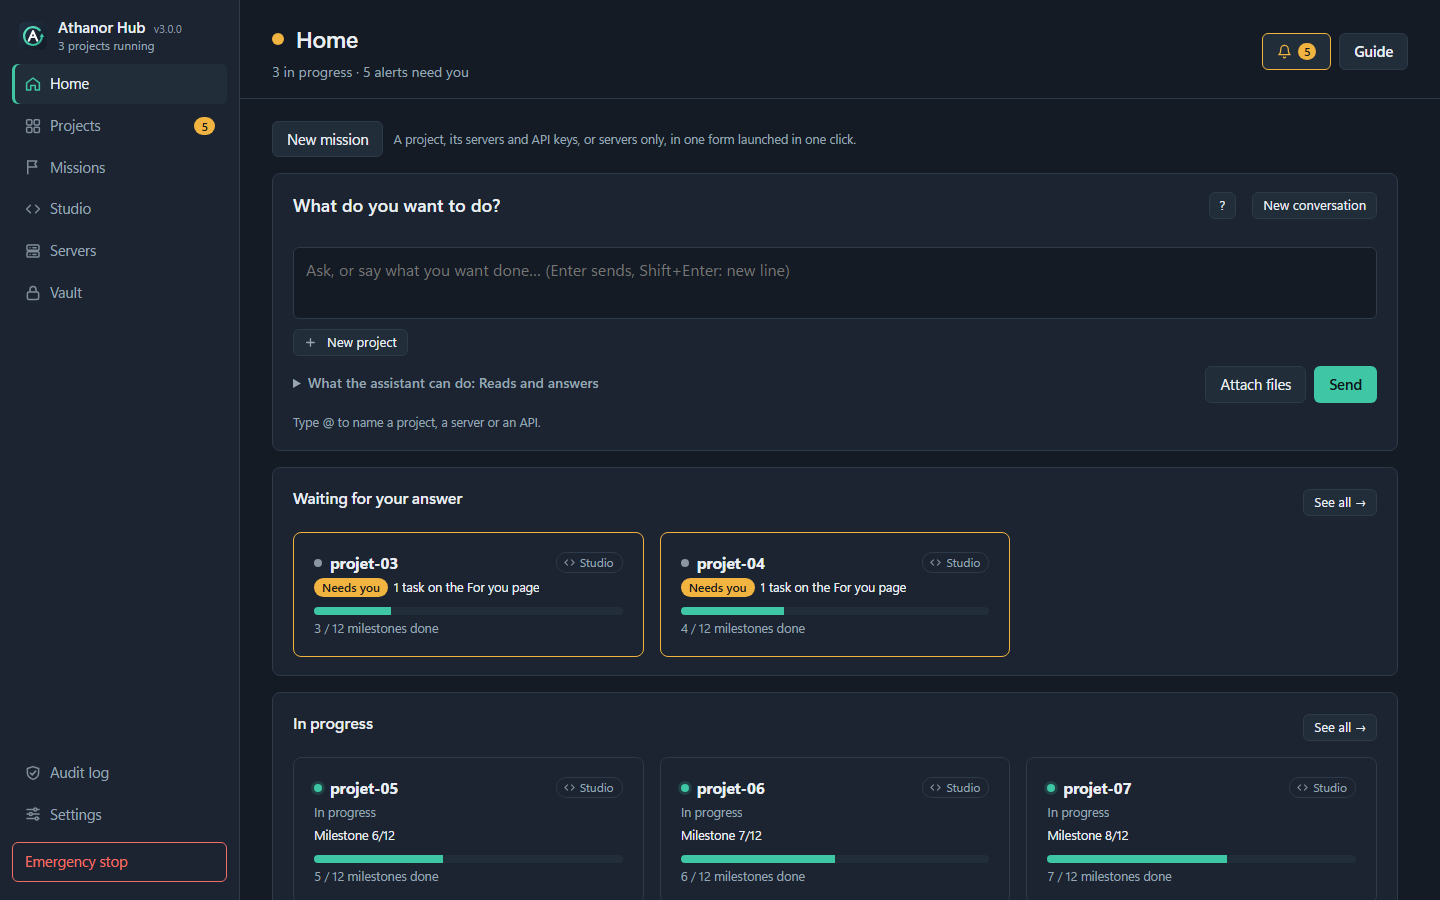
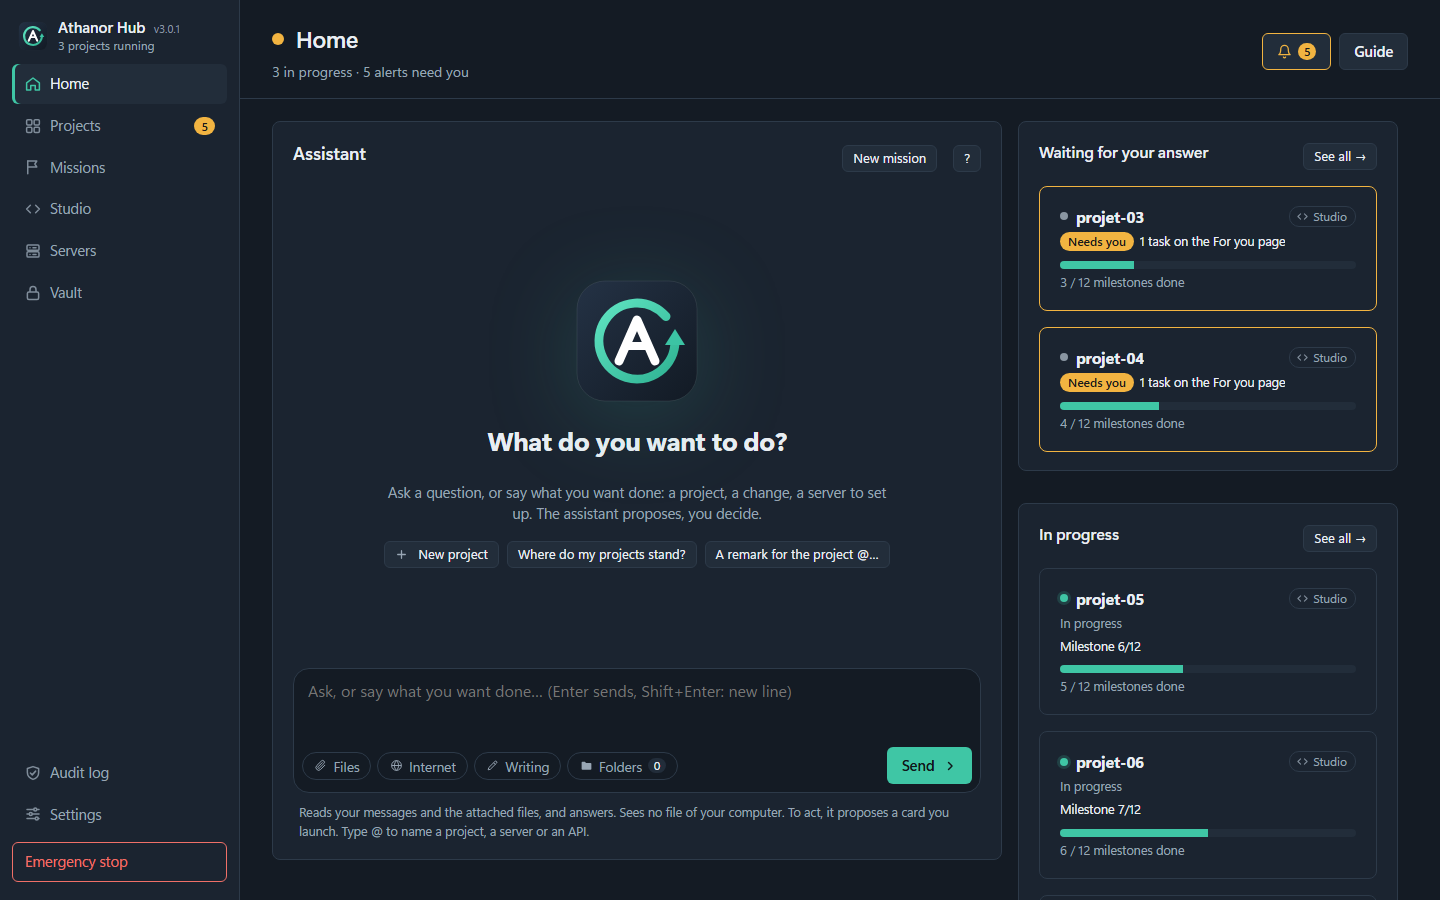
Show the new Home in the README

diff --git a/README.fr.md b/README.fr.md
@@ -33,7 +33,7 @@
 </p>
 
 <p align="center">
-  <img src="docs/images/hub.png" alt="La page d'accueil d'Athanor Hub : la conversation avec l'assistant, avec sa puce Nouveau projet et ses mentions @, puis les projets qui attendent votre réponse et ceux qui sont en cours, chacun avec ses jalons" width="100%">
+  <img src="docs/images/hub.png" alt="La page d'accueil d'Athanor Hub : une grande conversation avec l'assistant à gauche, la marque d'Athanor et des façons de commencer tant qu'elle est vide, ses options toujours visibles sous le champ ; à droite, les projets qui attendent votre réponse et ceux qui sont en cours, chacun avec ses jalons" width="100%">
 </p>
 
 Athanor Hub est un **hub** : un seul programme, une seule fenêtre, d'où vous pilotez des **modules** qui travaillent ensemble, sans jamais accéder aux données ni aux secrets les uns des autres. **Studio** lance [Claude Code](https://claude.com/claude-code) cycle après cycle sur votre propre PC, avec votre propre abonnement Claude, jusqu'à la livraison d'un jeu, d'un site, d'une application ou d'un outil. **Serveurs** prépare votre VPS, son DNS et ses certificats, et met en ligne ce que Studio construit. Le **coffre** garde chaque clé chiffrée et ne donne à chaque projet que ce que vous lui accordez. Une seule phrase sur la page d'accueil peut tous les mettre au travail :

diff --git a/README.md b/README.md
@@ -33,7 +33,7 @@
 </p>
 
 <p align="center">
-  <img src="docs/images/hub.png" alt="Athanor Hub's home page: the assistant's conversation box with its New project chip and its @ mentions, then the projects waiting for your answer and those in progress, each with its milestones" width="100%">
+  <img src="docs/images/hub.png" alt="Athanor Hub's home page: a large conversation with the assistant on the left, Athanor's mark and ways to start while it is empty, its options always in sight under the field; on the right, the projects waiting for your answer and those in progress, each with its milestones" width="100%">
 </p>
 
 Athanor Hub is a **hub**: one program, one window, from which you drive **modules** that work together, without ever reaching each other's data or secrets. **Studio** runs [Claude Code](https://claude.com/claude-code) cycle after cycle on your own PC, with your own Claude subscription, until a game, a website, an app or a tool is delivered. **Servers** prepares your VPS, its DNS and its certificates, and puts online what Studio builds. The **vault** keeps every key encrypted, and gives each project only what you grant it. One sentence on the home page can set them all to work:
